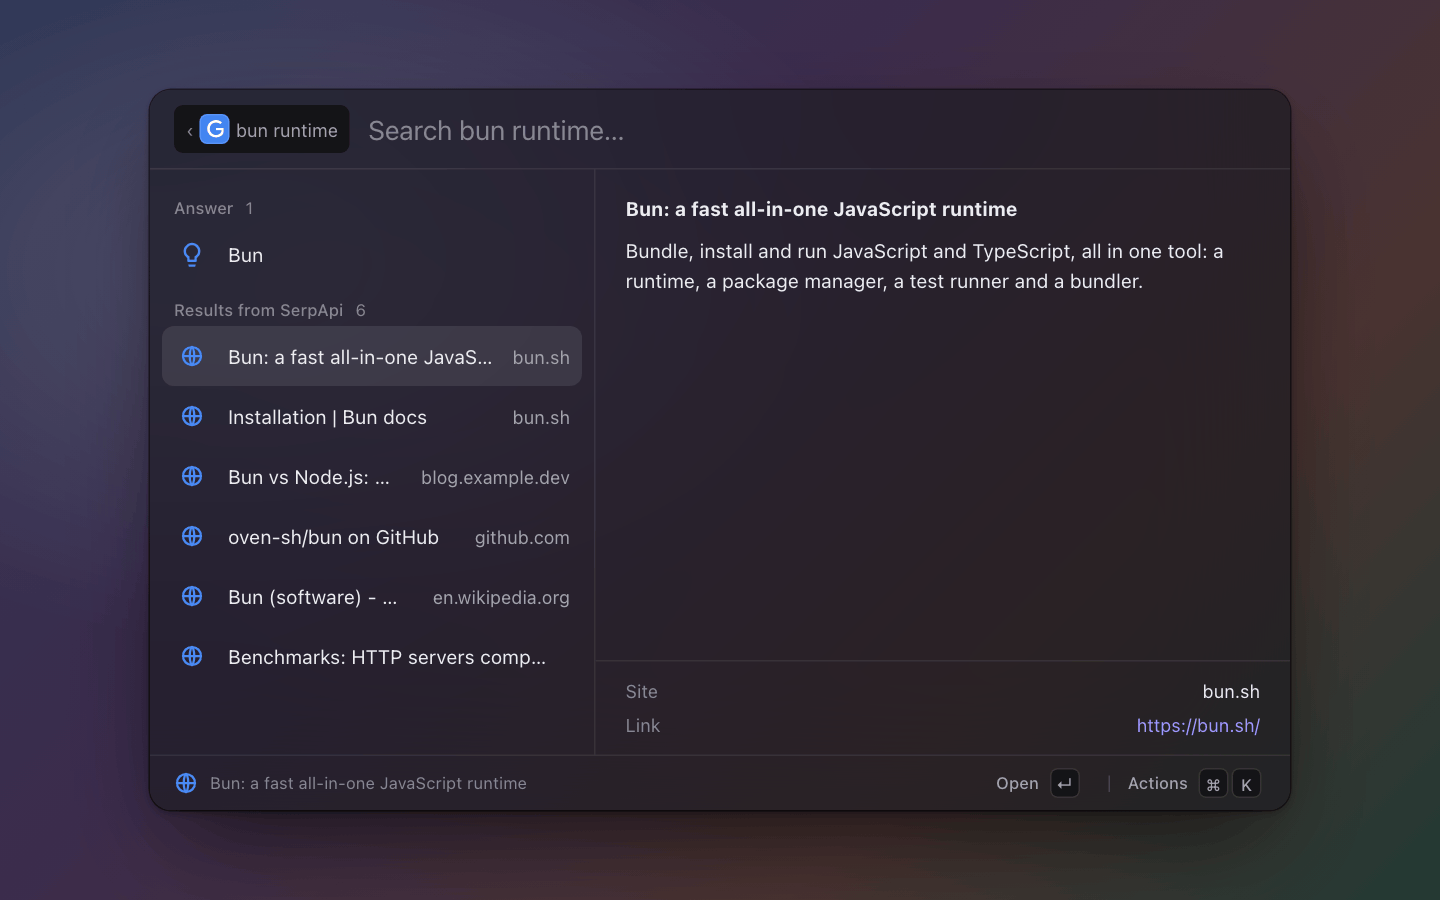
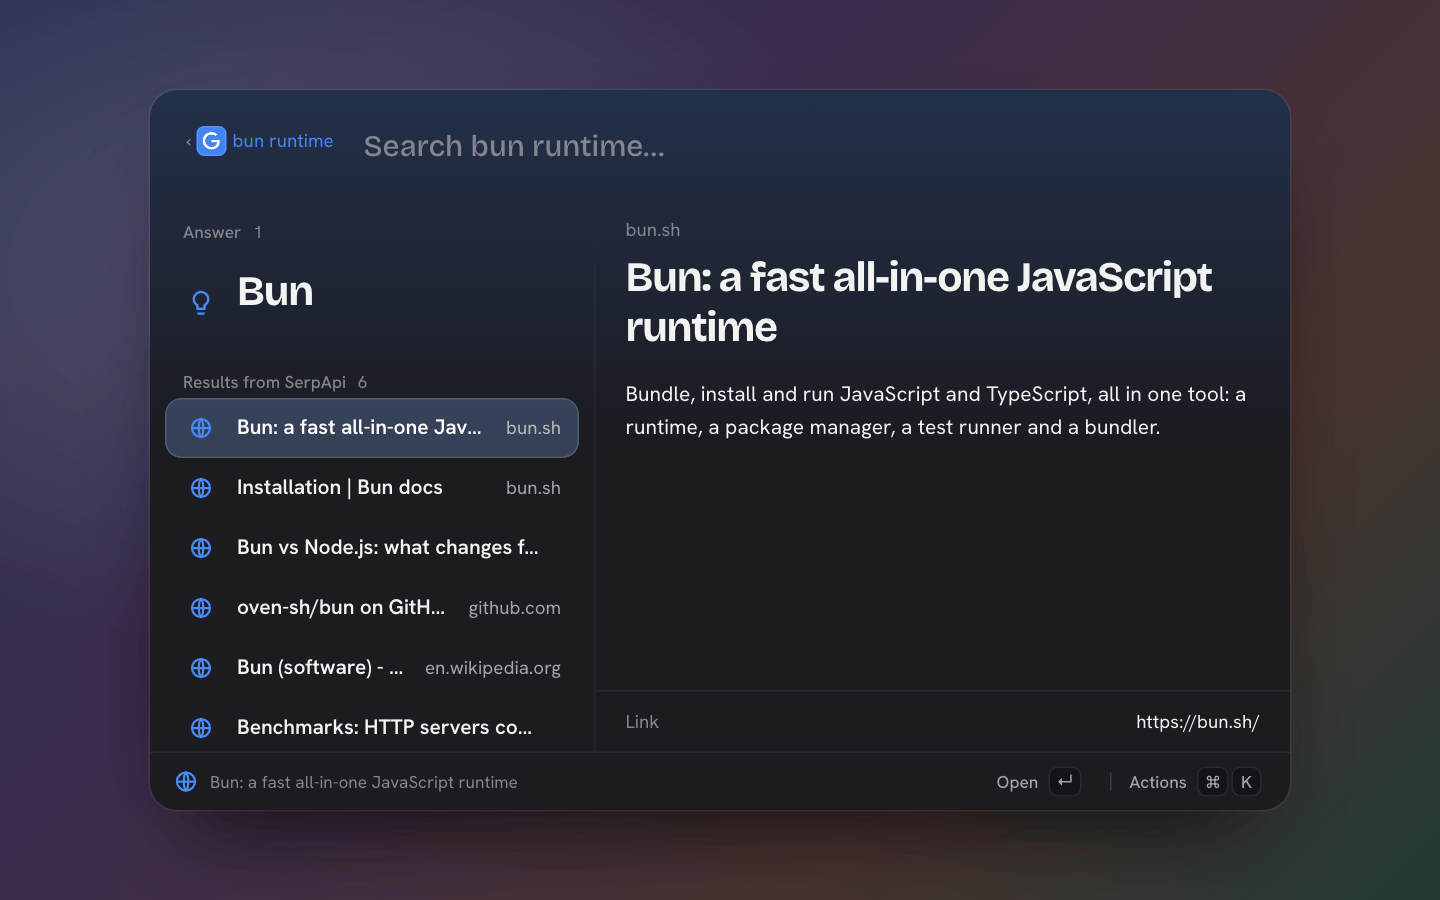
google: the results level leads with the answer (hero); a result's pane and an entity's card lead with the site or what it is and its name

diff --git a/extensions/google/index.ts b/extensions/google/index.ts
@@ -154,7 +154,8 @@ function resultRow(r: Result): Item {
     subtitle: r.snippet,
     url: r.url,
     accessories: [{ text: domainOf(r.url) }],
-    detail: { markdown: `**${mdEscape(r.title)}**\n\n${mdEscape(r.snippet)}`, metadata: [{ label: "Site", value: domainOf(r.url) }, { label: "Link", link: { text: truncate(r.url, 60), href: r.url } }, ...(r.date ? [{ label: "Date", value: r.date }] : [])] },
+    // The site (and date) on top, the page's title, its snippet, the link.
+    detail: { caption: [domainOf(r.url), r.date].filter(Boolean).join(" · "), title: r.title, markdown: mdEscape(r.snippet), metadata: [{ label: "Link", link: { text: truncate(r.url, 60), href: r.url } }] },
     actions: [OPEN, OPEN_BG, COPY_LINK, COPY_MD],
   };
 }
@@ -176,7 +177,8 @@ async function resultRows(q: string, filter: string, s: Settings): Promise<Item[
   }
   const t = filter.trim().toLowerCase();
   const has = (...xs: (string | undefined)[]) => !t || xs.some((x) => x?.toLowerCase().includes(t));
-  const rows = [...(f.answer && has(f.answer.title, f.answer.text) ? [answerRow(q, f.answer)] : []), ...f.results.filter((r) => has(r.title, r.snippet, r.url)).map((r) => ({ ...resultRow(r), section: `Results from ${PROVIDER_NAME[s.provider]}` }))];
+  // The answer, first here, is drawn as the headline (Item.hero); as you type it stays below the suggestions, so it is a plain row there.
+  const rows = [...(f.answer && has(f.answer.title, f.answer.text) ? [{ ...answerRow(q, f.answer), hero: true }] : []), ...f.results.filter((r) => has(r.title, r.snippet, r.url)).map((r) => ({ ...resultRow(r), section: `Results from ${PROVIDER_NAME[s.provider]}` }))];
   return rows.length ? rows : [hint("none", t ? `Nothing matches “${filter.trim()}”` : `No results for “${q}”`, PROVIDER_NAME[s.provider])];
 }
 
@@ -223,11 +225,11 @@ function previewMd(q: string, f: Found, s: Settings): string {
   return parts.join("\n\n");
 }
 
-/** A person, place or thing: Wikipedia's card when it has the page, else what Google said. */
-async function entityMd(e: NonNullable<Suggestion["entity"]>, s: Settings): Promise<string> {
+/** A person, place or thing as a document: what it is on top, its name, then Wikipedia's card when it has the page, else what Google said. */
+async function entityDetail(e: NonNullable<Suggestion["entity"]>, s: Settings): Promise<Detail> {
   const c = await wikiCard(e.title, localeOf(s).hl).catch(() => undefined);
-  if (!c) return [e.image ? `![](${e.image})` : "", `**${mdEscape(e.title)}**`, e.about ? mdEscape(e.about) : ""].filter(Boolean).join("\n\n");
-  return [c.image ? `![](${c.image})` : "", `**${mdEscape(c.title)}**${c.about ? `\n${mdEscape(c.about)}` : ""}`, mdEscape(c.extract), `[Wikipedia](${c.url})`].filter(Boolean).join("\n\n");
+  if (!c) return { ...(e.about && { caption: e.about }), title: e.title, ...(e.image && { markdown: `![](${e.image})` }) };
+  return { ...(c.about && { caption: c.about }), title: c.title, markdown: [c.image ? `![](${c.image})` : "", mdEscape(c.extract), `[Wikipedia](${c.url})`].filter(Boolean).join("\n\n") };
 }
 
 let previewSeq = 0;
@@ -243,7 +245,7 @@ async function detail(id: string): Promise<Detail> {
     if (my !== previewSeq) return {};
     try { return { markdown: previewMd(text, await results(text, s), s) }; } catch (err) { return { markdown: `Could not search: ${mdEscape(errorMessage(err))}` }; }
   }
-  if (e) return { markdown: await entityMd(e, s) };
+  if (e) return entityDetail(e, s);
   return {
     markdown: kind === "q" && !ready(s)
       ? `Enter searches Google for **${mdEscape(text)}**.\n\nResults can show as you type: pick a provider under Settings, Extensions, Google Search (SerpApi for Google's own results, Brave Search, or your own SearXNG).`

diff --git a/host/test/extensions/google.test.ts b/host/test/extensions/google.test.ts
@@ -163,6 +163,7 @@ describe("google", () => {
   test("the pane: an entity's Wikipedia card (English when the language has no page); a tip on the query without a provider", async () => {
     await list("tarkan");
     const card = await host.detail("google", "google", "q:tarkan");
+    expect(card.title).toBe("Tarkan");
     expect(card.markdown).toContain("![](https://img/t.jpg)");
     expect(card.markdown).toContain("Tarkan is a singer.");
     expect(seen).toContain("/tr.wikipedia.org/api/rest_v1/page/summary/Tarkan ");
@@ -189,7 +190,10 @@ describe("google", () => {
     const level = await list("", { args: { results: "2+2" } });
     expect(seen.filter((s) => s.startsWith("/serpapi")).length).toBe(before); // the preview's answer, reused
     expect(ids(level)).toEqual(["a:2+2", ...[1, 2, 3, 4, 5, 6].map((i) => `r:https://site${i}.com/${i}`)]);
+    expect(level[0]).toMatchObject({ name: "4", hero: true });
     expect(level[1]).toMatchObject({ name: "2+2 1", subtitle: "About 2+2 1", url: "https://site1.com/1", accessories: [{ text: "site1.com" }] });
+    expect(level[1].hero).toBeUndefined();
+    expect(level[1].detail).toEqual({ caption: "site1.com", title: "2+2 1", markdown: "About 2+2 1", metadata: [{ label: "Link", link: { text: "https://site1.com/1", href: "https://site1.com/1" } }] });
     expect(ids(await list("5", { args: { results: "2+2" } }))).toEqual(["r:https://site5.com/5"]);
     expect(await pick("r:https://site1.com/1", "copy_md")).toEqual({ copy: "[2+2 1](https://site1.com/1)" });
     expect(await pick("a:2+2", "copy")).toEqual({ copy: "4" });
